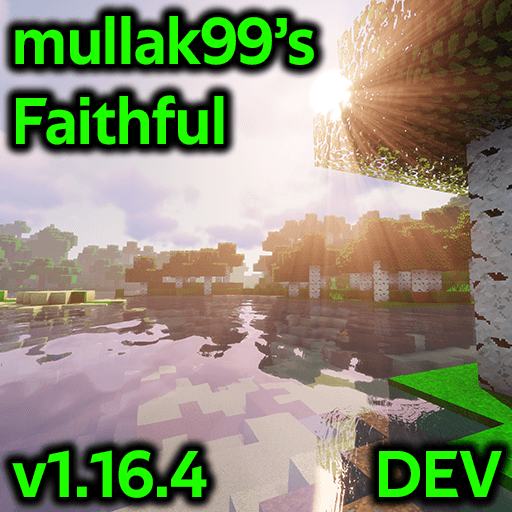
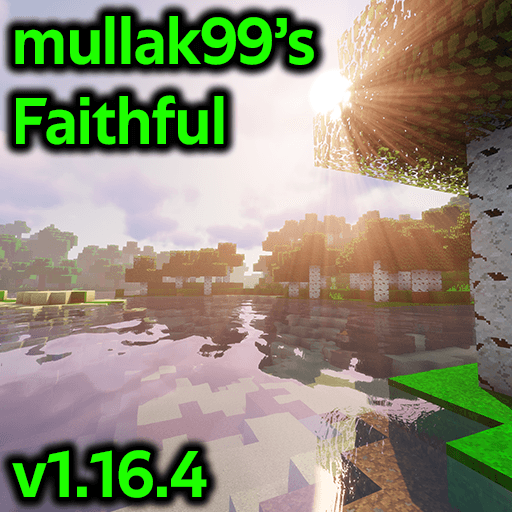
v1.16.4
No changes from DEV release

Changed region(s): [[0.7188, 0.8438, 1.0, 1.0]]

diff --git a/README.md b/README.md
@@ -1,6 +1,6 @@
 # mullak99's Faithful 32x
 
-**Current Branch Version:** _v1.16.4-DEV_  
+**Current Branch Version:** _v1.16.4_  
 
 ## Branch Breakdown
 
